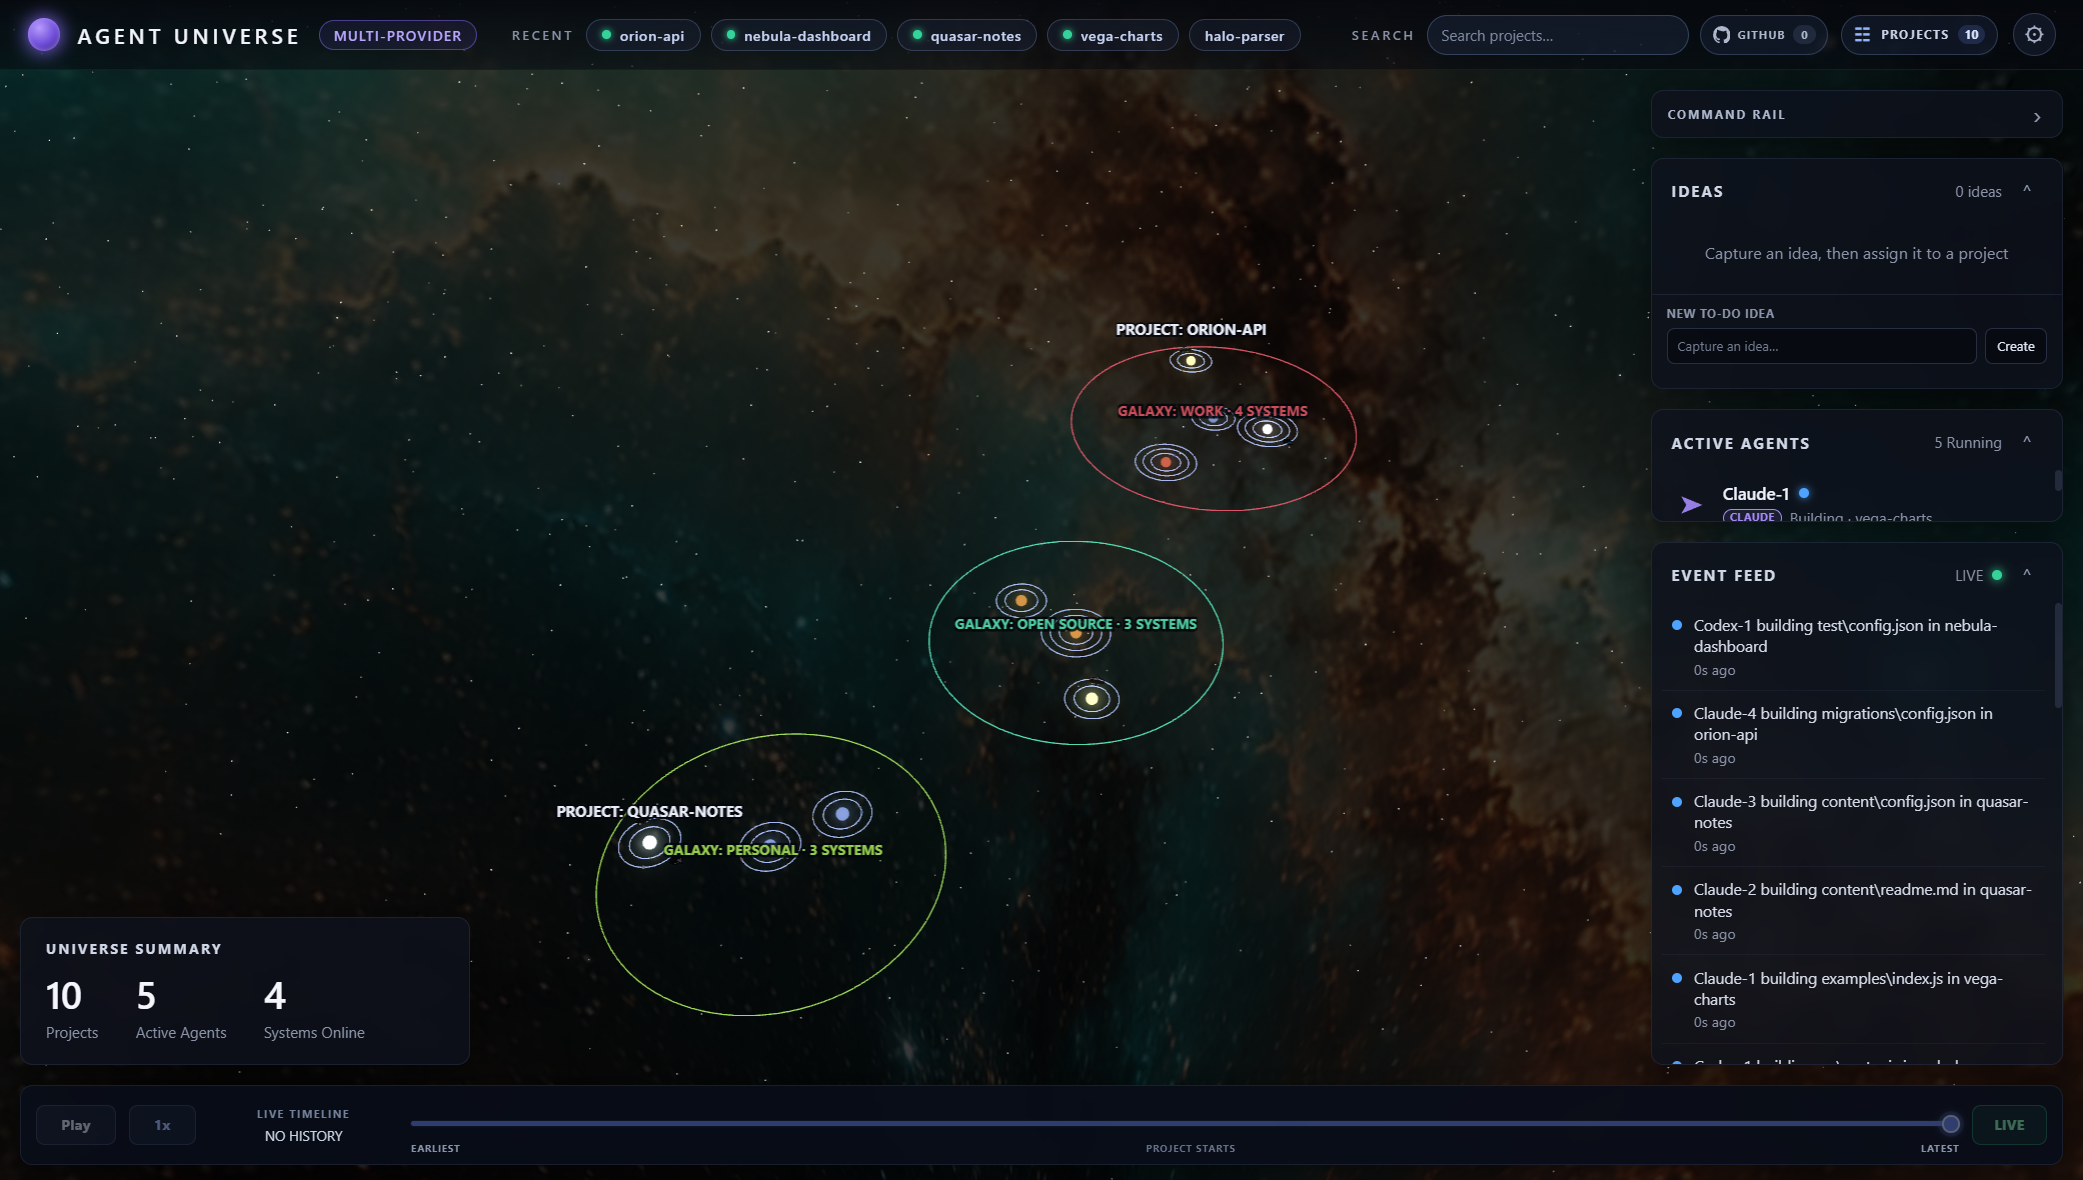
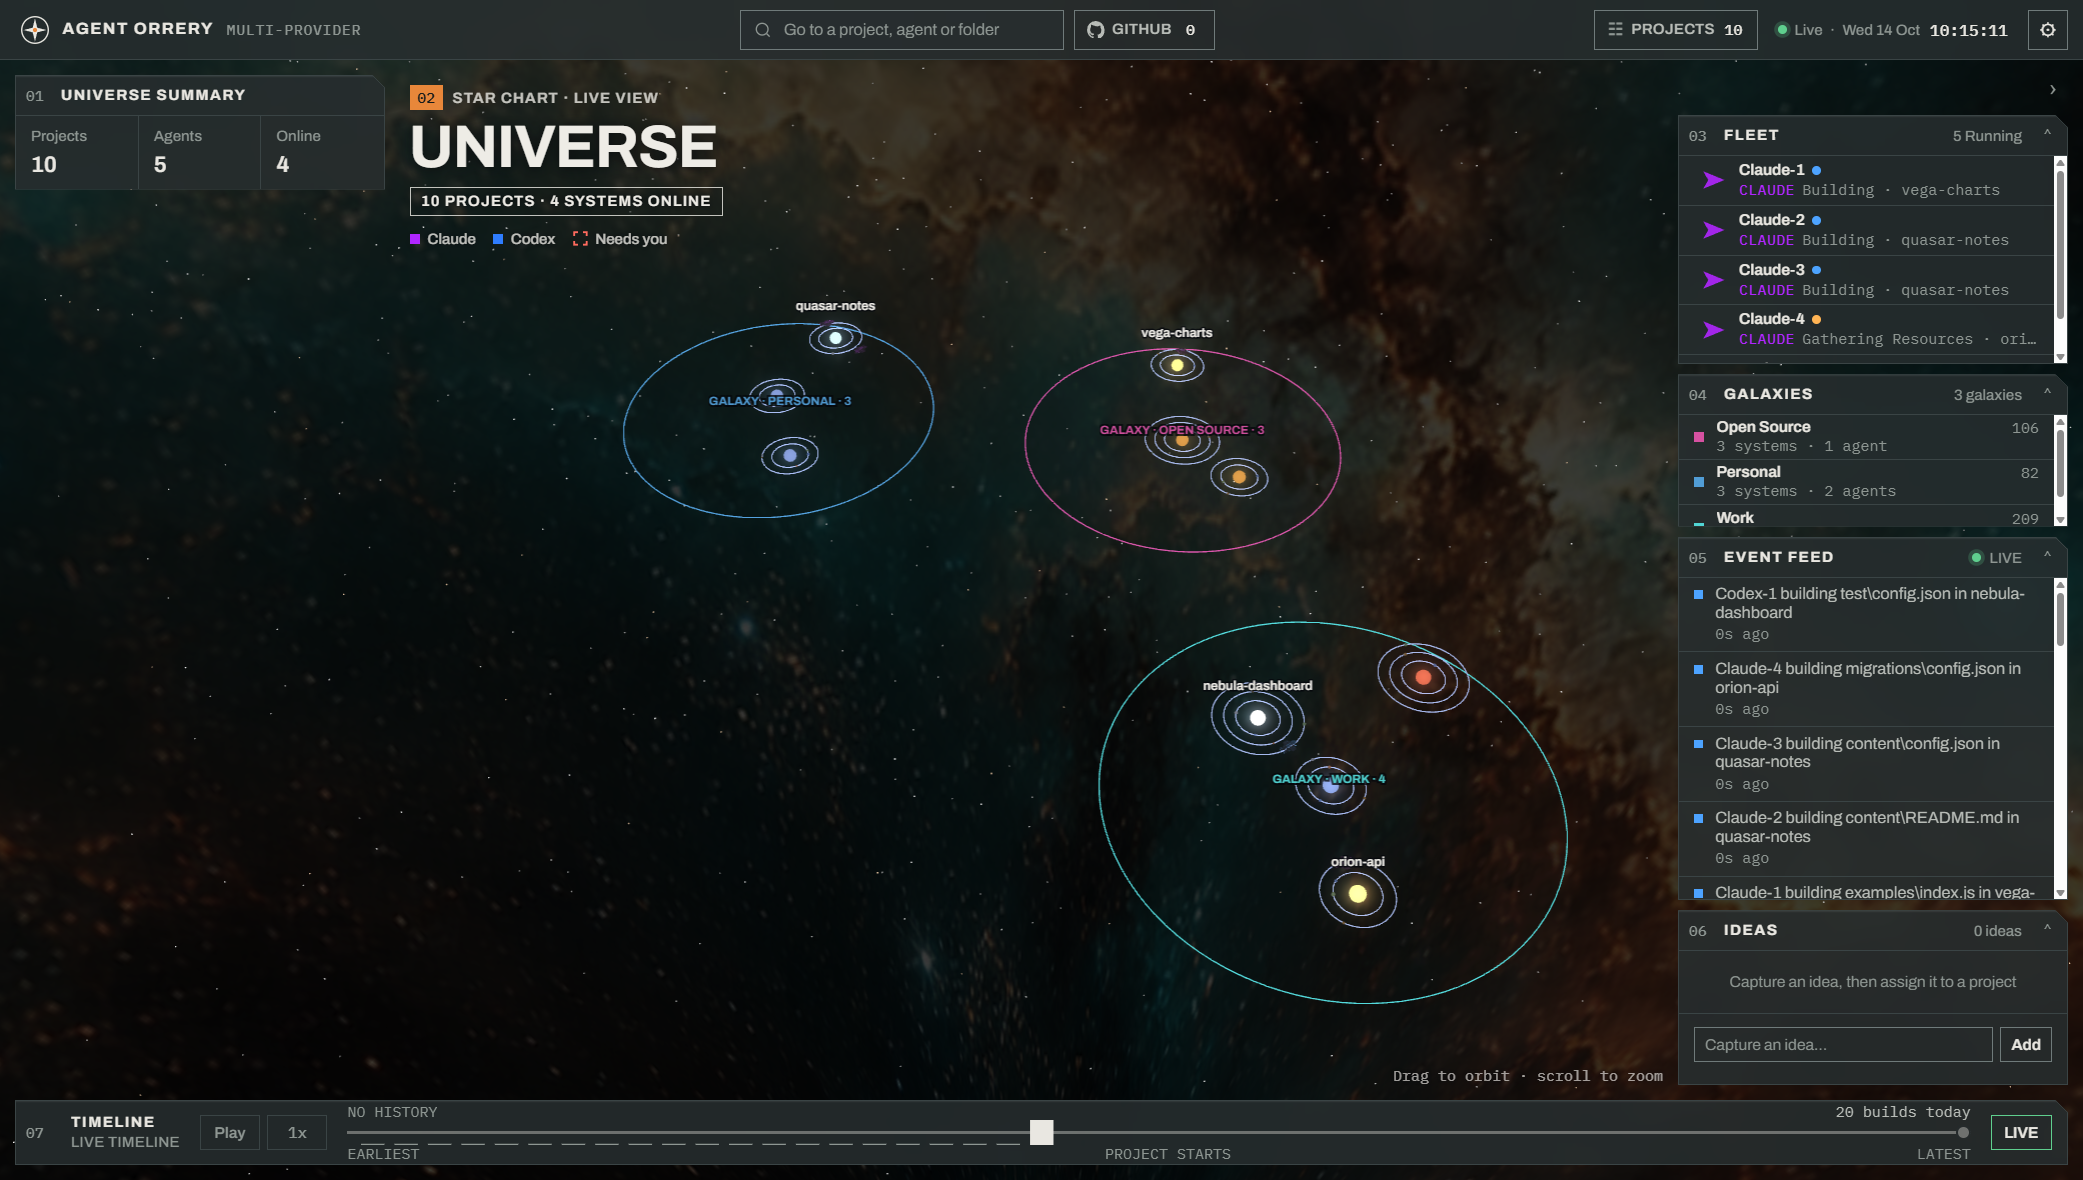
docs: Tricolor screenshots from the synthetic universe; design record points at design/tricolor

diff --git a/docs/DESIGN-DIRECTION.md b/docs/DESIGN-DIRECTION.md
@@ -68,3 +68,12 @@ If a genuine free-flight itch persists after warp transitions and orbit mode
 exist, it becomes a **separate toy project in its own repo** — not a feature
 of this one. This project's identity is: small, passive by default, narrowly
 actionable, tail-the-transcripts, glanceable.
+
+## Update, 2026-10-14: the Tricolor chrome
+
+The universe metaphor stands. The HUD around it was redesigned as "Tricolor": a quiet
+dark palette with one orange accent, Archivo and IBM Plex Mono shipped locally, numbered
+modules in two rails, and every colour and size held in `design/tricolor/tokens.json`
+(renderer CSS is generated from it, so the scheme can change in one place). The source,
+boards and rationale live in `design/tricolor/README.md`; planet close-ups keep their
+realistic materials on purpose.
